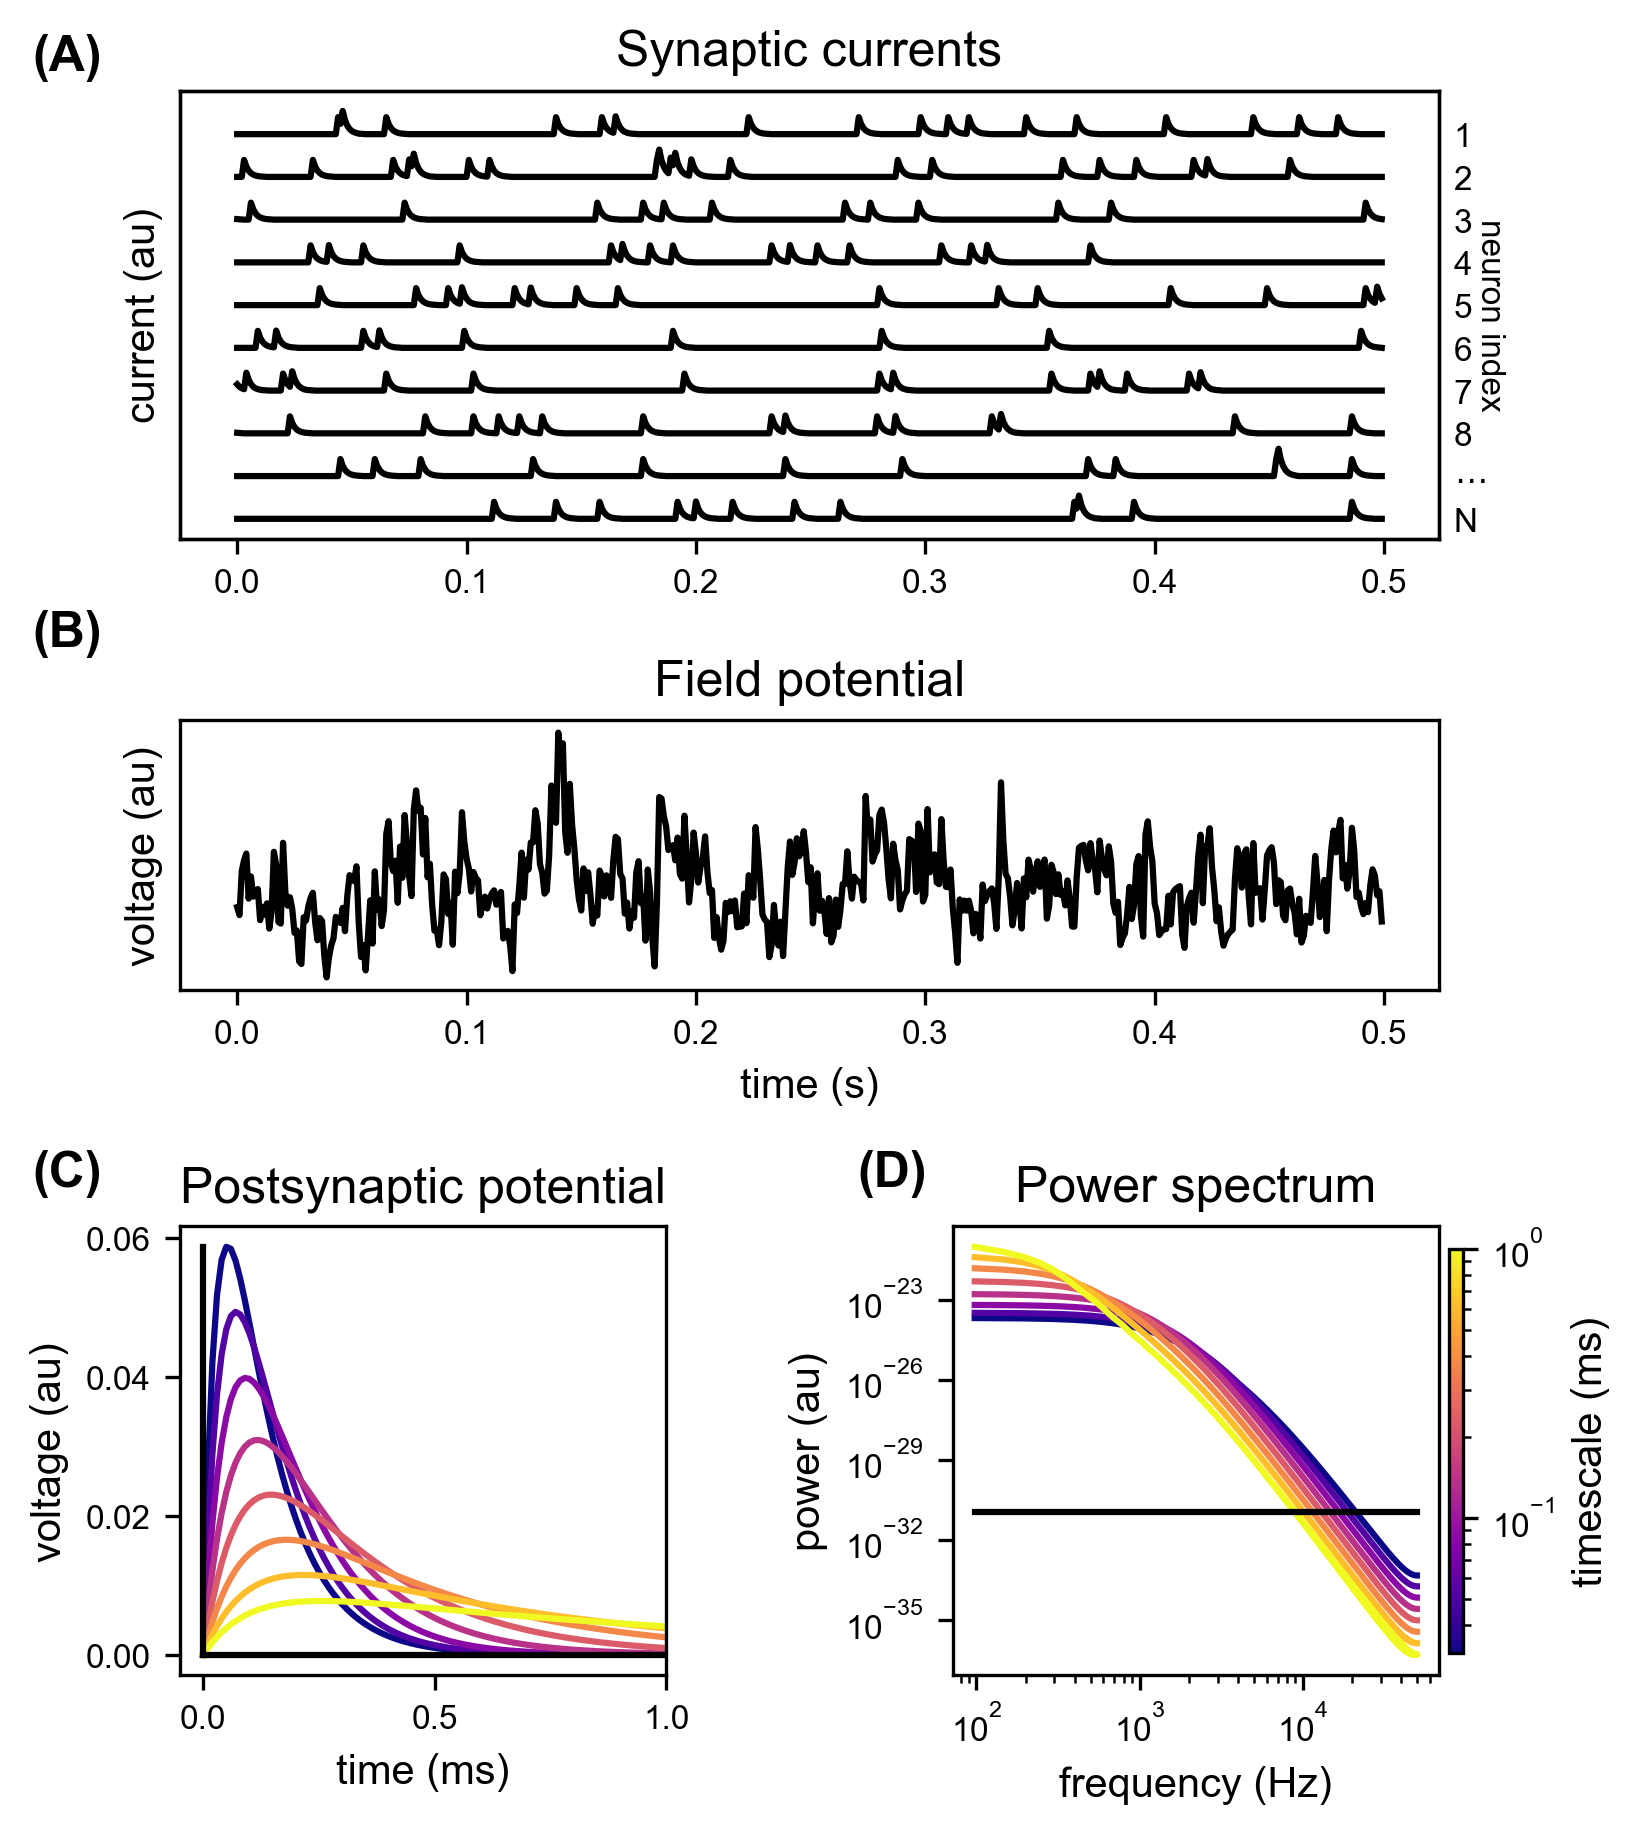
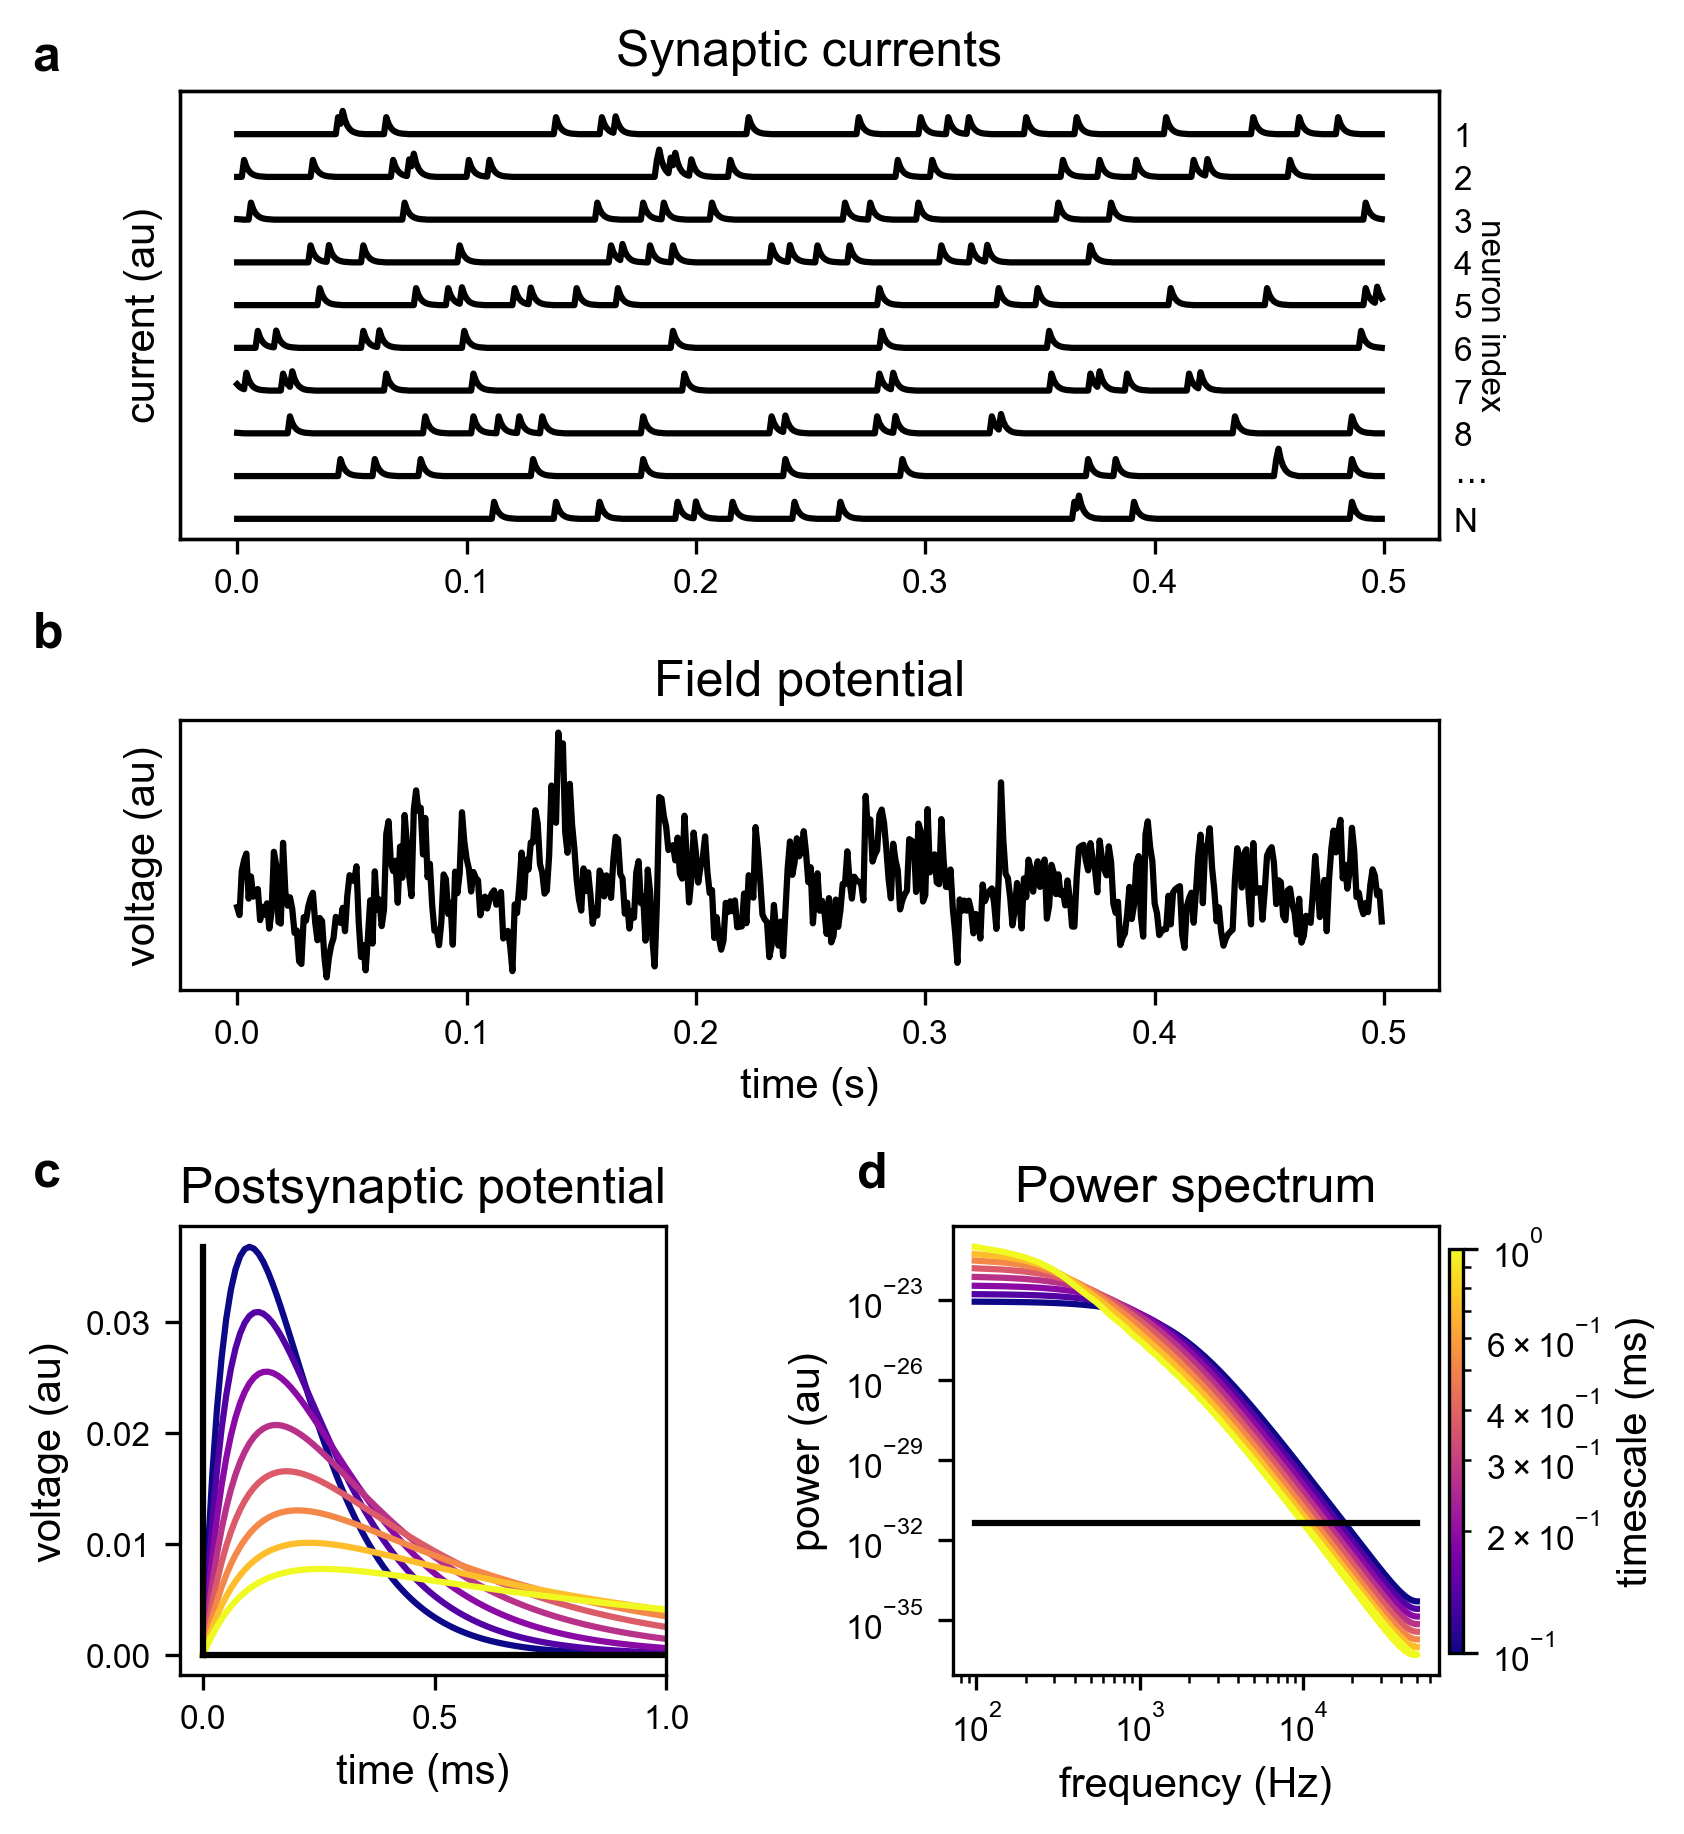
update panel labels

diff --git a/scripts/figure_3.py b/scripts/figure_3.py
@@ -220,10 +220,10 @@ def plot_results(time, signal, freqs, spectra, exponent, ttv):
         ax.spines['right'].set_visible(False)
         
     # add figure panel labels
-    fig.text(0.002, 0.96, '(A)', fontsize=PANEL_FONTSIZE, fontweight='bold')
-    fig.text(0.700, 0.96, '(B)', fontsize=PANEL_FONTSIZE, fontweight='bold')
-    fig.text(0.002, 0.48, '(C)', fontsize=PANEL_FONTSIZE, fontweight='bold')
-    fig.text(0.700, 0.48, '(D)', fontsize=PANEL_FONTSIZE, fontweight='bold')
+    fig.text(0.002, 0.96, 'a', fontsize=PANEL_FONTSIZE, fontweight='bold')
+    fig.text(0.700, 0.96, 'b', fontsize=PANEL_FONTSIZE, fontweight='bold')
+    fig.text(0.002, 0.48, 'c', fontsize=PANEL_FONTSIZE, fontweight='bold')
+    fig.text(0.700, 0.48, 'd', fontsize=PANEL_FONTSIZE, fontweight='bold')
 
     # save/show
     fig.savefig(os.path.join(FIGURE_PATH, 'figure_3'))

diff --git a/scripts/figure_1.py b/scripts/figure_1.py
@@ -77,10 +77,10 @@ def main():
     plot_panel_cd(fig, ax_c, ax_d)
 
     # add panel labels
-    fig.text(0.01, 0.97, '(A)', fontsize=PANEL_FONTSIZE, fontweight='bold')
-    fig.text(0.01, 0.65, '(B)', fontsize=PANEL_FONTSIZE, fontweight='bold')
-    fig.text(0.01, 0.35, '(C)', fontsize=PANEL_FONTSIZE, fontweight='bold')
-    fig.text(0.56, 0.35, '(D)', fontsize=PANEL_FONTSIZE, fontweight='bold')
+    fig.text(0.01, 0.97, 'a', fontsize=PANEL_FONTSIZE, fontweight='bold')
+    fig.text(0.01, 0.65, 'b', fontsize=PANEL_FONTSIZE, fontweight='bold')
+    fig.text(0.01, 0.35, 'c', fontsize=PANEL_FONTSIZE, fontweight='bold')
+    fig.text(0.56, 0.35, 'd', fontsize=PANEL_FONTSIZE, fontweight='bold')
 
     # save
     plt.savefig(os.path.join(FIGURE_PATH, 'figure_1'), bbox_inches='tight')

diff --git a/scripts/figure_2.py b/scripts/figure_2.py
@@ -90,10 +90,10 @@ def main():
     plot_d(fig, spec)
 
     # add subplot labels
-    fig.text(0.00, 0.99, '(A)', fontsize=PANEL_FONTSIZE, fontweight='bold')
-    fig.text(0.00, 0.54, '(B)', fontsize=PANEL_FONTSIZE, fontweight='bold')
-    fig.text(0.52, 0.54, '(C)', fontsize=PANEL_FONTSIZE, fontweight='bold')
-    fig.text(0.00, 0.27, '(D)', fontsize=PANEL_FONTSIZE, fontweight='bold')
+    fig.text(0.00, 0.99, 'a', fontsize=PANEL_FONTSIZE, fontweight='bold')
+    fig.text(0.00, 0.54, 'b', fontsize=PANEL_FONTSIZE, fontweight='bold')
+    fig.text(0.52, 0.54, 'c', fontsize=PANEL_FONTSIZE, fontweight='bold')
+    fig.text(0.00, 0.27, 'd', fontsize=PANEL_FONTSIZE, fontweight='bold')
 
     # save
     plt.savefig(os.path.join(FIGURE_PATH, 'figure_2'), bbox_inches='tight')

diff --git a/scripts/figure_4.py b/scripts/figure_4.py
@@ -77,8 +77,8 @@ def main():
     plot_words_analysis(ax_b, APERIODIC_TERMS, SELECT_TERMS)
 
     # add panel labels
-    fig.text(0.01, 0.99, '(A)', fontsize=PANEL_FONTSIZE, fontweight='bold')
-    fig.text(0.51, 0.99, '(B)', fontsize=PANEL_FONTSIZE, fontweight='bold')
+    fig.text(0.01, 0.99, 'a', fontsize=PANEL_FONTSIZE, fontweight='bold')
+    fig.text(0.51, 0.99, 'b', fontsize=PANEL_FONTSIZE, fontweight='bold')
 
     # save figure
     plt.savefig(os.path.join(FIGURE_PATH, 'figure_4'), bbox_inches='tight')
